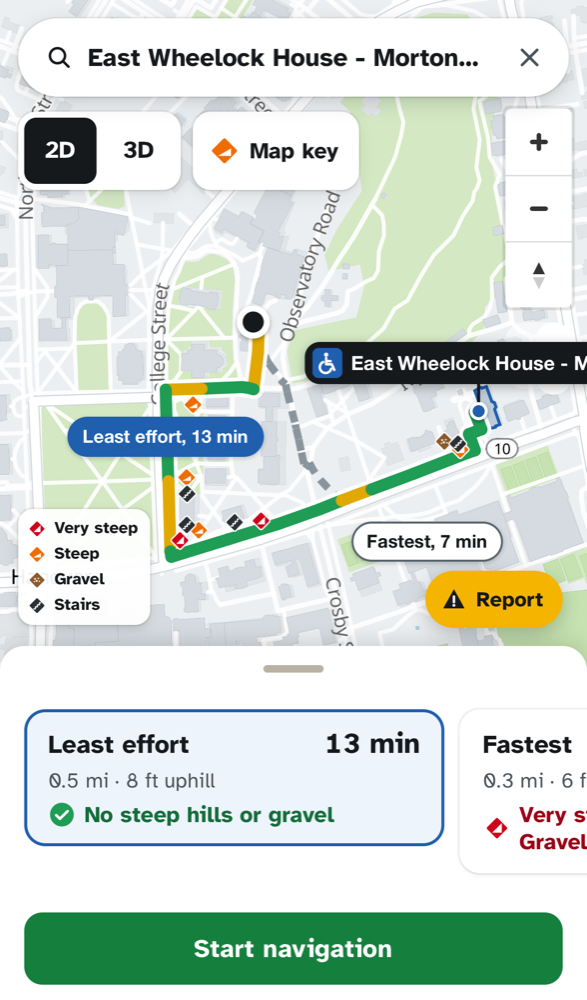
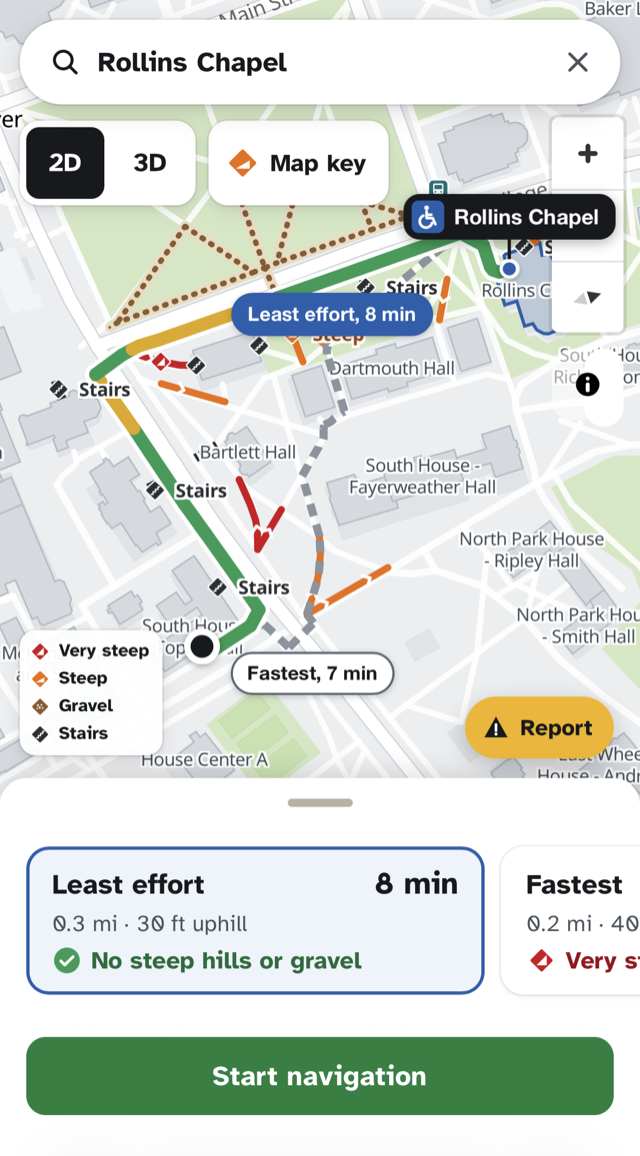
README: clearer problem, trust rules and AI wording; new route screenshot; current graph size

diff --git a/README.md b/README.md
@@ -3,38 +3,38 @@
 **A campus navigator for wheelchair users.** From wherever you are on campus to any building, along the accessible route that takes the least physical effort, ending at an accessible entrance.
 
 <p align="center">
-  <img src="docs/images/route.png" alt="Wheelio on a phone: the least effort route (13 min, no steep hills or gravel) drawn next to the fastest route (7 min, with a very steep hill and gravel), with stairs and steep hills marked on the map" width="320">
+  <img src="docs/images/route.png" alt="Wheelio on a phone: a trip to Rollins Chapel, with the least effort route (8 min, no steep hills or gravel) drawn next to the fastest route (7 min, with a very steep hill), and stairs, steep hills and gravel marked on the map" width="320">
 </p>
 
 Built at the **AI at 70 Hackathon at Dartmouth** (October 30 to 31, 2026) by Aditya Tripathi and Caleb Zhou.
 
-> Wheelio is a student project. It is not affiliated with or endorsed by Dartmouth College.
+> Wheelio is a student project built for Dartmouth's campus. It is not yet affiliated with or endorsed by Dartmouth College.
 
 ---
 
 ## The problem
 
-Dartmouth sits on a hill. For a student in a manual wheelchair, the shortest path between two buildings can mean a very steep climb, a gravel shortcut, or a flight of stairs with no warning until you reach it.
+Dartmouth is known as the "College on the Hill." For a student in a manual wheelchair, the shortest path between two buildings can mean a very steep climb, a stretch of rough gravel, or a flight of stairs with no warning until you reach it.
 
-- Dartmouth's accessible shuttle (MobiliD) runs Monday to Friday, 7 a.m. to 7 p.m. Evenings and weekends, students wheel the whole way.
-- Existing tools don't solve it. Google Maps has wheelchair routes for transit, not campus paths. Dartmouth's accessibility map is static and color-coded. None of them rank routes by how tiring they are, route to the accessible door, or update when a ramp is blocked today.
+- Dartmouth's accessible shuttle (MobiliD) runs Monday to Friday, 7 a.m. to 7 p.m. On evenings and weekends, wheelchair users do not have this option to get from place to place on campus.
+- Existing tools don't solve it. Google Maps offers wheelchair-accessible transit directions and marks which places have accessible entrances, but it doesn't route you along campus paths to that entrance. It doesn't look for the least tiring way there, or warn about steep hills, gravel or stairs along the way, all of which matter to wheelchair users and others with limited mobility, such as people using crutches or a walker. Dartmouth's accessibility map is static and color-coded, and neither one updates when an obstacle blocks a ramp on a given day.
 
 ## What it does
 
-- **Start anywhere.** Use your phone's location, tap the map, or pick a building. If you start off the path network (a parking lot, a lawn), Wheelio snaps you to the nearest path and tells you how far away it is.
-- **Go to any building.** Search by name or nickname. The route ends at that building's accessible entrance, not its front door.
-- **Two routes, you choose.** The **least effort** route (avoids hills, gravel and stairs) is shown next to the **fastest** accessible route, with the tradeoff in plain words: "6 min longer, avoids a very steep hill."
+- **Start anywhere.** Use your phone's location, tap the map, or pick a building as your starting point. If you start off the path network (a parking lot, a lawn), Wheelio snaps you to the nearest path and tells you how far away it is.
+- **Go to any building.** Search by name or nickname. The route ends at the specific accessible entrance of that building most easily reachable from the user's starting location, not at the building's front door.
+- **Two routes, you choose.** The **least effort** route (avoiding steep hills, gravel paths and stairs) is shown next to the **fastest** accessible route, with the tradeoff in plain words: "6 min longer, avoids a very steep hill."
 - **Hazards you can see.** Stairs, steep and very steep hills (with uphill arrows), gravel and brick are always drawn and labeled on the map. The route itself is colored by difficulty, with a colorblind mode that adds line patterns.
 - **Plain language.** Users see "gentle", "moderate", "steep" and "very steep", not grade percentages. Exact numbers sit in an optional details view.
 - **Live navigation.** Follows your location, counts down time left, warns "Steep stretch in 200 ft", reroutes if you go off course, and tells you when you've reached the accessible entrance.
-- **Barrier reports.** Take a photo of a blocked ramp or construction fence. AI checks the photo, the report is pinned to the path it affects, and routes adapt for everyone, cautiously (see the trust rules below).
-- **Facilities fix list.** Facilities staff get a prioritized list of confirmed barriers with photos, and can mark each one confirmed, not a barrier, or fixed.
+- **Barrier reports.** Take a photo of a blocked ramp or obstacle in any path on campus. AI checks the photo, the report is pinned to the path it affects, and routes are updated for everyone cautiously (see the trust rules below).
+- **Facilities fix list.** Facilities staff get a prioritized list of potential barriers with photos, and can mark each one confirmed, not a barrier, or fixed.
 - **Works as a phone app.** A mobile-first web app with a draggable bottom sheet, 44 px touch targets, and "Add to Home Screen" support.
 
 ## How it works
 
 ### 1. The path network
-Dartmouth publishes its accessible "Path of Travel" map as a public ArcGIS service: about 2,700 path segments, each with a surface (concrete, pavement, brick, gravel, stairs, crosswalk) and a coarse slope class. `scripts/build_graph.py` joins those segments into a routable graph, splits lines where one path meets the middle of another, and fills a few gaps with paved OpenStreetMap sidewalks and hand-checked additions. The result is about 2,650 edges, 99% of them in one connected network. Each of the 217 accessible entrances is snapped onto the network.
+Dartmouth publishes its accessible "Path of Travel" map as a public ArcGIS service: about 2,700 path segments, each with a surface (concrete, pavement, brick, gravel, stairs, crosswalk) and a coarse slope class. `scripts/build_graph.py` joins those segments into a routable graph, splits lines where one path meets the middle of another, and fills a few gaps with paved OpenStreetMap sidewalks and hand-checked additions. The result is about 2,850 path segments meeting at about 2,370 junctions, 98% of them in one connected network. Each of the 217 accessible entrances is snapped onto the network.
 
 ### 2. Elevation
 Dartmouth's slope classes are too coarse ("under 5", "over 5", "over 10") and say nothing about direction. `scripts/add_elevation.py` samples the USGS 1 meter lidar elevation model every 5 m along every path and stores, for each direction: the steepest uphill stretch (a best-fit line over 15 m, to smooth out lidar noise), the total climb, and the full elevation profile. Where lidar is unreliable (bridges and decks, which bare-earth lidar removes), it falls back to Dartmouth's label.
@@ -58,16 +58,16 @@ Any stretch steeper than the user's limit is avoided (default 8.33%, the steepes
 Wheelio uses Claude (Anthropic's API) for three jobs. **The routing math is plain, deterministic code. AI never picks a route.**
 
 - **Photo check:** classifies a barrier photo (type, severity, passable or not for a manual chair, confidence). It is told to ignore people and any text in the photo.
-- **Route briefing:** one or two plain sentences about what to expect ("One moderate slope near Dartmouth Hall, then flat to the side entrance"). Code computes the facts; Claude only words them, and a filter rejects percentages and jargon.
-- **Facilities fix list:** code orders the confirmed barriers; Claude drafts the summary, labeled "Draft by AI, check before acting."
+- **Route briefing:** one or two plain sentences about what to expect ("One moderate slope near Dartmouth Hall, then flat to the side entrance"). Wheelio works out the facts from the route itself; Claude only puts them into words, and Wheelio rejects any briefing that includes percentages or technical jargon.
+- **Facilities fix list:** Wheelio ranks the reports, confirmed barriers first; Claude drafts the summary, labeled "Draft by AI, check before acting."
 
 Every AI feature has a non-AI fallback, so the app works with no API key, a slow network, or a refused request.
 
 ### 5. Barrier reports: who can report, and how fake ones are handled
-A fake report costs someone a detour. A missed real barrier can strand someone. So reports only ever add caution, and the user always sees an alternative.
+Barrier reports are built around one tradeoff. A false report costs someone a slightly longer route. A real barrier the app doesn't know about is found only on arrival, after the effort is already spent. So unconfirmed reports only ever add caution, and the user always sees an alternative.
 
-- **Anyone** can report without an account. It shows as "Reported, unconfirmed", adds a small penalty and a warning, and never blocks a path on its own.
-- **A signed-in student** confirms it: one signed-in report with a confident photo check, or one signed-in "Still there? Yes", blocks the path temporarily. Three independent reports also confirm it.
+- **Anyone** can report without an account. A single report shows as "Reported, unconfirmed": the path gets a warning and a small penalty, but stays open.
+- **A report becomes confirmed** in one of two ways: a signed-in student backs it (their own report with a confident photo check, or a "Still there? Yes" tap), or three people report the same barrier in the same place, with or without accounts. Routes then go around it until the report expires. If a wheelchair can still get past, the path stays open but counts as harder.
 - **Facilities staff** reports count as verified right away and stay until staff mark them fixed.
 - When the photo check is unsure, the report goes to "needs a person to confirm" and changes no routes until someone does.
 - Photos come from the live camera only (no gallery uploads), within about 30 m of the path. Reports expire after 12 hours (48 hours for construction), are rate-limited, and duplicate photos are rejected.
